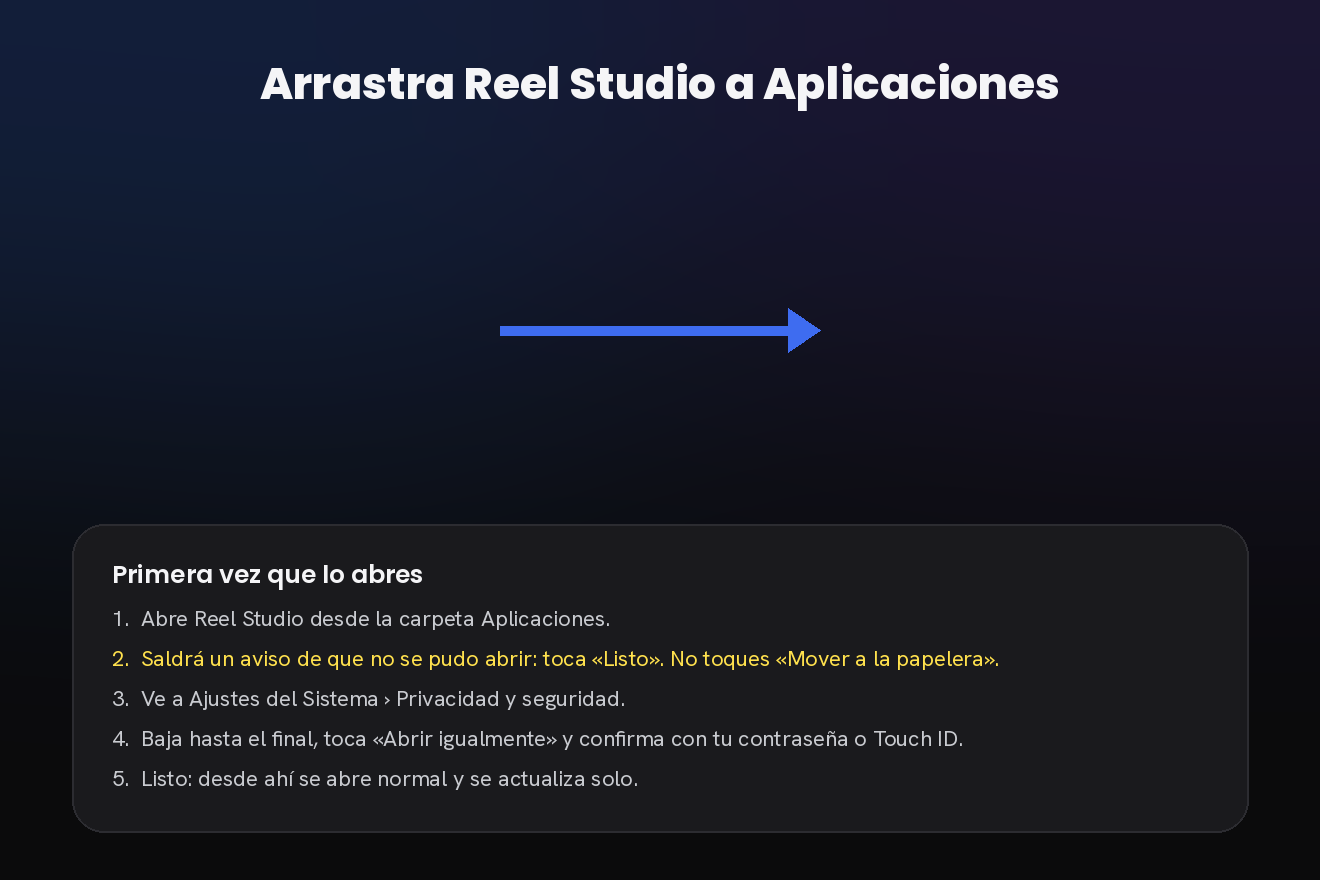
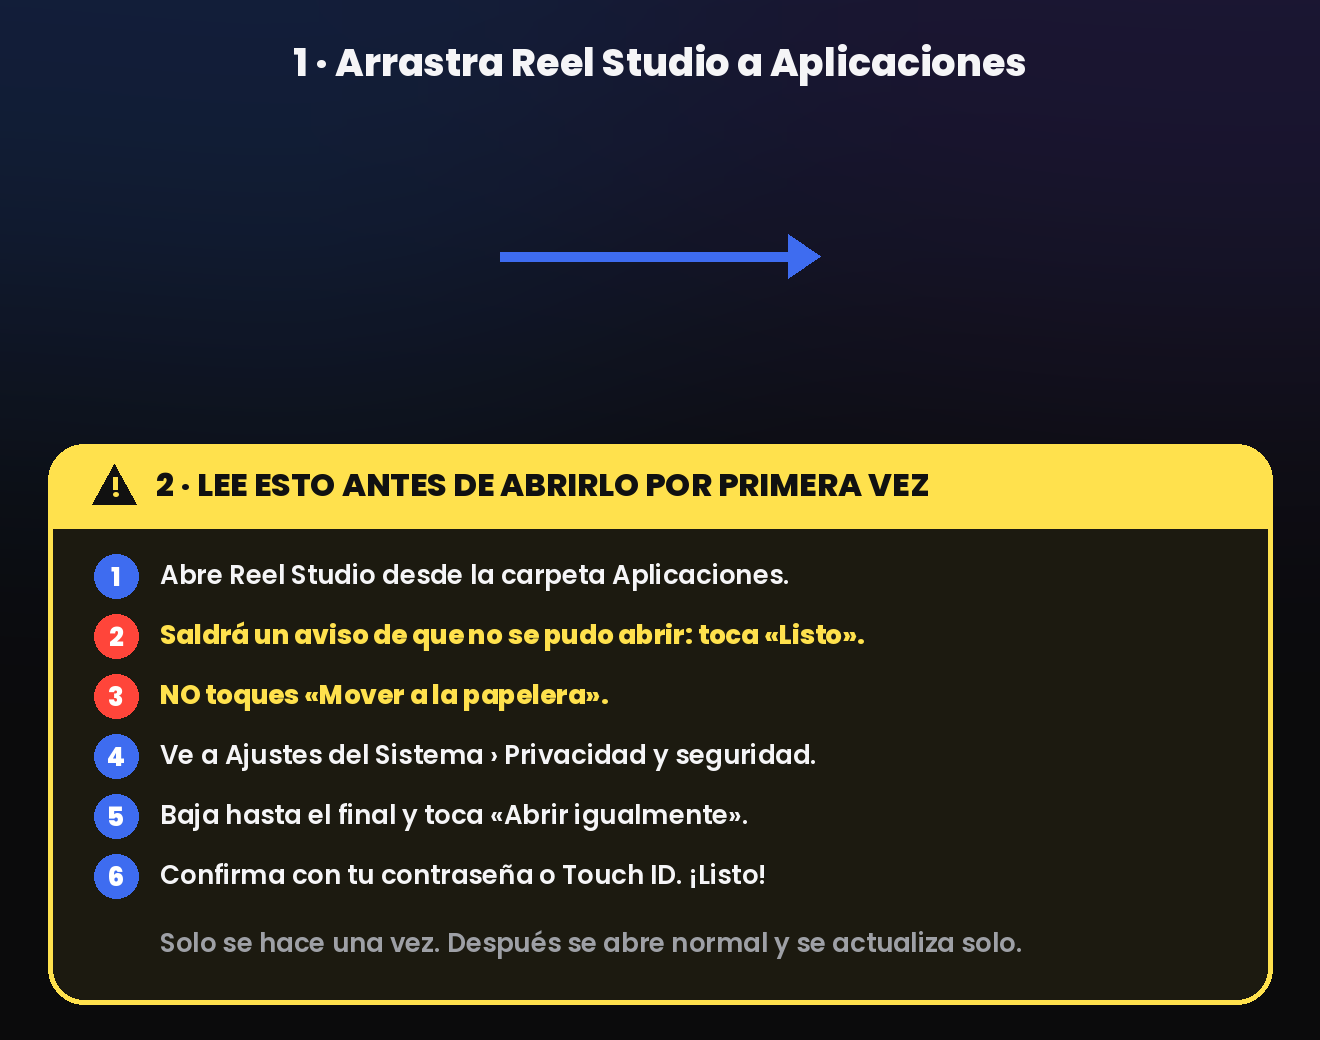
Instrucciones del DMG grandes y en recuadro amarillo
Claude-Session: https://claude.ai/code/session_01WwnLC8JChWTrTopqmGdkWC

Changed region(s): [[0.0311, 0.3375, 0.9629, 0.9818], [0.1864, 0.0307, 0.8076, 0.1227], [0.3727, 0.2148, 0.6212, 0.2761]]

diff --git a/mac/dmg/fondo.py b/mac/dmg/fondo.py
@@ -1,50 +1,64 @@
-"""Genera el fondo del DMG (660×440 y @2x) con las instrucciones de instalación."""
+"""Genera el fondo del DMG (660×520 y @2x) con instrucciones bien visibles."""
 from pathlib import Path
 from PIL import Image, ImageDraw, ImageFont, ImageFilter
 
 HERE = Path(__file__).resolve().parent
 FONTS = HERE.parent.parent / "app" / "fonts"
+W0, H0 = 660, 520
+ICON_Y = 128  # debe coincidir con settings.py
 
 
 def make(scale: int, out: Path):
-    W, H = 660 * scale, 440 * scale
+    W, H = W0 * scale, H0 * scale
     s = lambda v: int(v * scale)  # noqa: E731
     img = Image.new("RGB", (W, H), "#0B0B0C")
-    # degradado suave y brillo azul/violeta
     glow = Image.new("RGB", (W, H), "#0B0B0C")
     g = ImageDraw.Draw(glow)
-    g.ellipse([s(-120), s(-220), s(420), s(220)], fill="#13213F")
-    g.ellipse([s(300), s(-240), s(820), s(200)], fill="#1D1838")
+    g.ellipse([s(-120), s(-220), s(420), s(200)], fill="#13213F")
+    g.ellipse([s(300), s(-240), s(820), s(180)], fill="#1D1838")
     glow = glow.filter(ImageFilter.GaussianBlur(s(90)))
     img = Image.blend(img, glow, 0.9)
     d = ImageDraw.Draw(img)
-    bold = ImageFont.truetype(str(FONTS / "Poppins-ExtraBold.ttf"), s(22))
-    semi = ImageFont.truetype(str(FONTS / "Poppins-SemiBold.ttf"), s(12.5))
-    body = ImageFont.truetype(str(FONTS / "HankenGrotesk.ttf"), s(12))
-    small = ImageFont.truetype(str(FONTS / "HankenGrotesk.ttf"), s(11))
+    F = lambda name, size: ImageFont.truetype(str(FONTS / name), s(size))  # noqa: E731
+    title, head, step, stepb = F("Poppins-ExtraBold.ttf", 19), F("Poppins-ExtraBold.ttf", 16), \
+        F("Poppins-SemiBold.ttf", 13), F("Poppins-ExtraBold.ttf", 13)
 
     def center(text, y, font, fill):
         w = d.textlength(text, font=font)
         d.text(((W - w) / 2, y), text, font=font, fill=fill)
 
-    center("Arrastra Reel Studio a Aplicaciones", s(26), bold, "#F5F5F7")
-    # flecha entre los dos íconos (íconos en x=170 y x=490, y=165)
-    y = s(165)
+    center("1 · Arrastra Reel Studio a Aplicaciones", s(18), title, "#F5F5F7")
+    y = s(ICON_Y)
     d.line([s(250), y, s(398), y], fill="#3E6CF0", width=s(5))
     d.polygon([(s(410), y), (s(394), y - s(11)), (s(394), y + s(11))], fill="#3E6CF0")
-    # recuadro de instrucciones
-    box = [s(36), s(262), W - s(36), H - s(24)]
-    d.rounded_rectangle(box, radius=s(16), fill="#1A1A1D", outline="#2C2C31", width=max(1, s(1)))
-    d.text((s(56), s(278)), "Primera vez que lo abres", font=semi, fill="#F5F5F7")
+
+    # recuadro amarillo muy visible
+    box = [s(24), s(222), W - s(24), H - s(18)]
+    d.rounded_rectangle(box, radius=s(18), fill="#1C1A10", outline="#FFE14D", width=s(2.5))
+    d.rounded_rectangle([box[0], box[1], box[2], box[1] + s(42)], radius=s(18), fill="#FFE14D")
+    d.rectangle([box[0], box[1] + s(24), box[2], box[1] + s(42)], fill="#FFE14D")
+    tx, ty = s(46), box[1] + s(10)
+    d.polygon([(tx + s(11), ty), (tx, ty + s(20)), (tx + s(22), ty + s(20))], fill="#111111")
+    d.text((tx + s(9.2), ty + s(2.5)), "!", font=stepb, fill="#FFE14D")
+    d.text((tx + s(32), box[1] + s(9)), "2 · LEE ESTO ANTES DE ABRIRLO POR PRIMERA VEZ", font=head, fill="#111111")
     steps = [
-        ("1.  Abre Reel Studio desde la carpeta Aplicaciones.", "#C9CBD0"),
-        ("2.  Saldrá un aviso de que no se pudo abrir: toca «Listo». No toques «Mover a la papelera».", "#FFE14D"),
-        ("3.  Ve a Ajustes del Sistema › Privacidad y seguridad.", "#C9CBD0"),
-        ("4.  Baja hasta el final, toca «Abrir igualmente» y confirma con tu contraseña o Touch ID.", "#C9CBD0"),
-        ("5.  Listo: desde ahí se abre normal y se actualiza solo.", "#C9CBD0"),
+        ("Abre Reel Studio desde la carpeta Aplicaciones.", False),
+        ("Saldrá un aviso de que no se pudo abrir: toca «Listo».", True),
+        ("NO toques «Mover a la papelera».", True),
+        ("Ve a Ajustes del Sistema › Privacidad y seguridad.", False),
+        ("Baja hasta el final y toca «Abrir igualmente».", False),
+        ("Confirma con tu contraseña o Touch ID. ¡Listo!", False),
     ]
-    for i, (t, col) in enumerate(steps):
-        d.text((s(56), s(302) + i * s(20)), t, font=small, fill=col)
+    yy = box[1] + s(56)
+    for i, (t, warn) in enumerate(steps):
+        cx, cy, r = s(58), yy + s(10), s(11)
+        d.ellipse([cx - r, cy - r, cx + r, cy + r], fill="#FF453A" if warn else "#3E6CF0")
+        n = str(i + 1)
+        d.text((cx - d.textlength(n, font=stepb) / 2, cy - s(9)), n, font=stepb, fill="#FFFFFF")
+        d.text((s(80), yy), t, font=stepb if warn else step, fill="#FFE14D" if warn else "#F5F5F7")
+        yy += s(30)
+    note = "Solo se hace una vez. Después se abre normal y se actualiza solo."
+    d.text((s(80), yy + s(4)), note, font=step, fill="#9EA0A6")
     img.save(out)
 
 

diff --git a/mac/dmg/settings.py b/mac/dmg/settings.py
@@ -5,14 +5,14 @@ volume_name = "Reel Studio"
 format = "UDZO"
 files = [app]
 symlinks = {"Aplicaciones": "/Applications"}
-icon_locations = {"Reel Studio.app": (170, 165), "Aplicaciones": (490, 165)}
-window_rect = ((200, 140), (660, 440))
+icon_locations = {"Reel Studio.app": (170, 128), "Aplicaciones": (490, 128)}
+window_rect = ((200, 100), (660, 520))
 default_view = "icon-view"
 show_status_bar = False
 show_tab_view = False
 show_toolbar = False
 show_pathbar = False
 show_sidebar = False
-icon_size = 104
+icon_size = 96
 text_size = 13
 arrange_by = None
